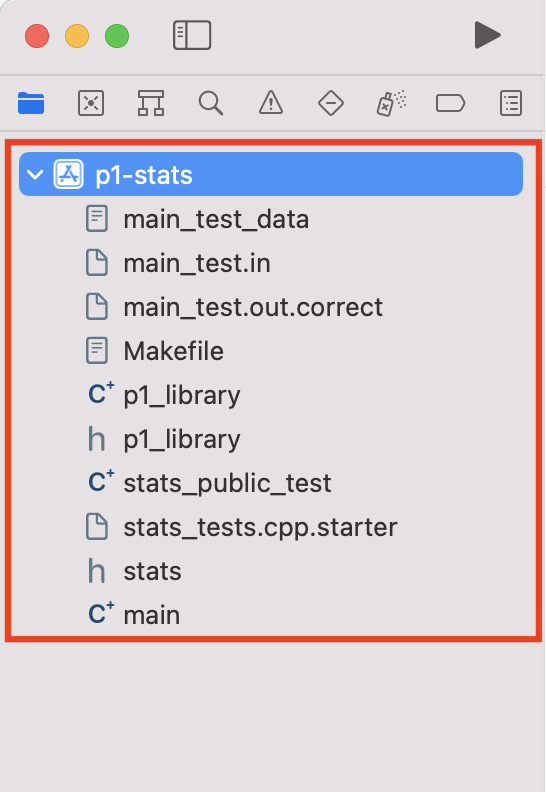
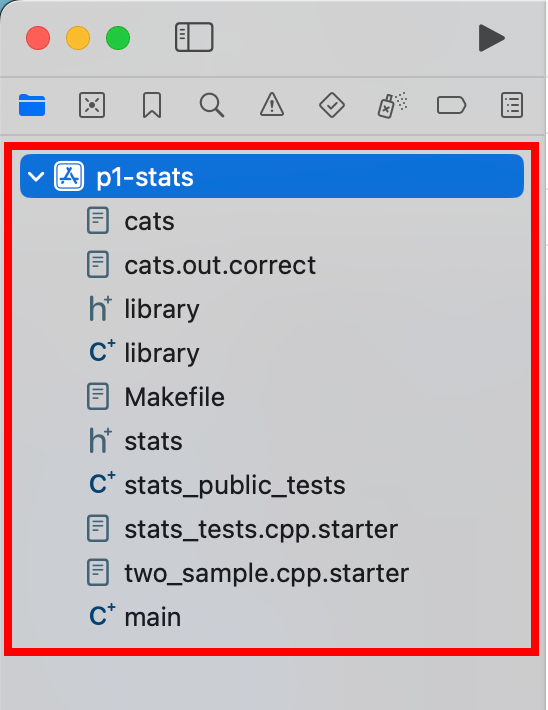
Undo 'add starter files'; update existing screenshots

diff --git a/docs/setup_xcode.md b/docs/setup_xcode.md
@@ -121,16 +121,14 @@ You should see your new file in the sidebar.
 
 <img src="images/xcode119.png" width="768px" />
 
-### Add starter files
-This example is from [EECS 280 Project 1](https://eecs280staff.github.io/stats/), but this tutorial doesn't require understanding the files. Your URL or files might be different.
-
-<div class="primer-spec-callout warning" markdown="1">
-**Pitfall:** Don’t just drag starter files downloaded with your browser directly into Xcode. This may not place them in the correct project folder. If you want to use those files, skip to the [next section](#move-existing-files) for the correct steps. Otherwise, keep following this section without using any previously downloaded files.
-</div>
+### Add existing files
+If you have starter files, add them to your project directory. This example is from [EECS 280 Project 1](https://eecs280staff.github.io/stats/), but this tutorial doesn't require understanding the files. Your URL or files might be different.
 
 <div class="primer-spec-callout warning" markdown="1">
 **Pitfall:** Make sure you're in the directory containing your source code.
 ```console
+$ pwd
+/Users/awdeorio/eecs280/p1-stats
 $ ls
 main.cpp  p1-stats.xcodeproj
 ```
@@ -169,35 +167,13 @@ Right-click `p1-stats` in the sidebar.  Select "Add Files".
 
 <img src="images/xcode080.png" width="256px" />
 
-Select all the starter files (<kbd>Command</kbd> + <kbd>a</kbd>). Your specific files may not match the image below. Do *not* select "Copy items if needed". Do *not* select any targets. Click "Add".
+Select all the starter files (<kbd>Command</kbd> + <kbd>a</kbd>). Your specific files may not match the image below.  Click "Add".
 
-<img src="images/xcode100.png" width="384px" />
+<img src="images/xcode340.png" width="512px" />
 
-You will now see your files in the sidebar.
+Select "Move files to destination" as the action. Do *not* select any targets. Click "Finish".
 
-<img src="images/xcode110.png" width="256px" />
-
-#### Rename files
-If you need to rename any files, use Xcode, not the command line or Finder.  In EECS 280, you'll need to rename any files that end in `.starter`.
-
-Select a file and press <kbd>Enter</kbd>.  Change the file name.  In EECS 280, you'll do this to any file that ends in `.starter`.
-
-| <img src="images/xcode120.png" width="192px" /> | <img src="images/xcode125.png" width="192px" /> |
-
-### Move existing files
-If you already have existing files elsewhere on your computer, you can also add them to your project. For example, if you want to use any files downloaded with your browser, they were likely saved to your Downloads folder and you'll need to move them into your project folder. 
-
-Use the menu and select: File > Add Files to "p1-stats"... (this will vary depending on your project's name).
-
-<img src="images/xcode340.png" width="384px" />
-
-Navigate to the directory with your existing files and select the ones you want to move. To select multiple files at once, you can hold down <kbd>Command</kbd> while clicking. You can also press <kbd>Command</kbd> + <kbd>a</kbd> to select all files. Once you've made your selection, click "Add".
-
-<img src="images/xcode350.png" width="768px" />
-
-Select "Move files to destination" as the action. You may also select "Copy files to destination" if you wish to leave the original files untouched, but do *not* select "Reference files in place". Do *not* select any targets. Click "Finish".
-
-<img src="images/xcode360.png" width="768px" />
+<img src="images/xcode350.png" width="512px" />
 
 You will now see your files in the sidebar.
 
